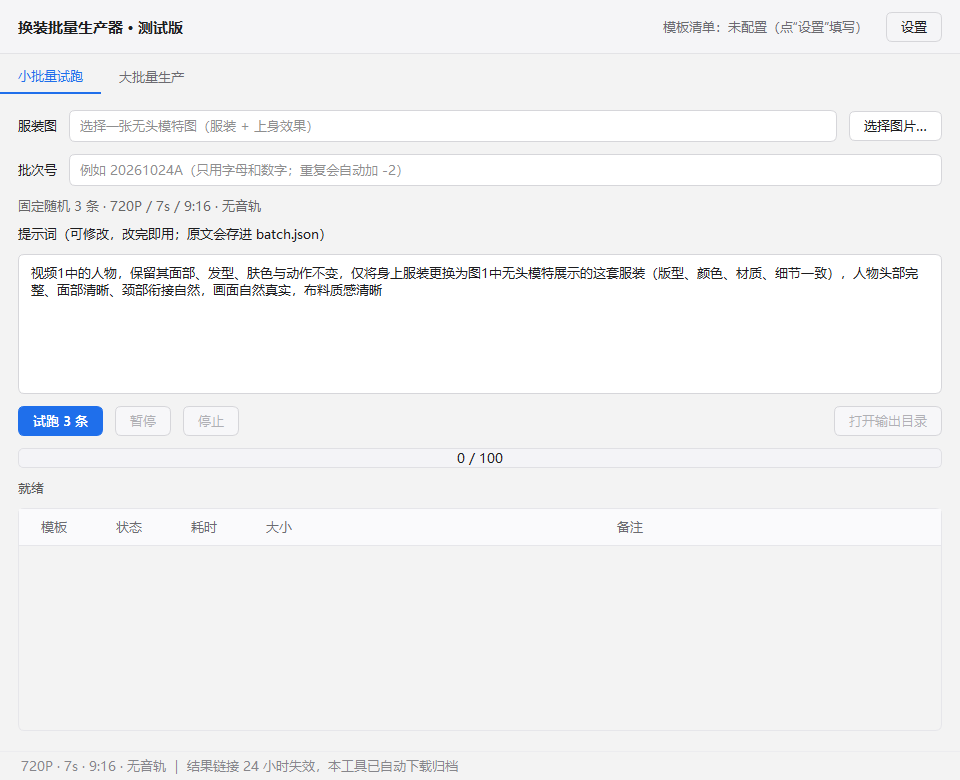
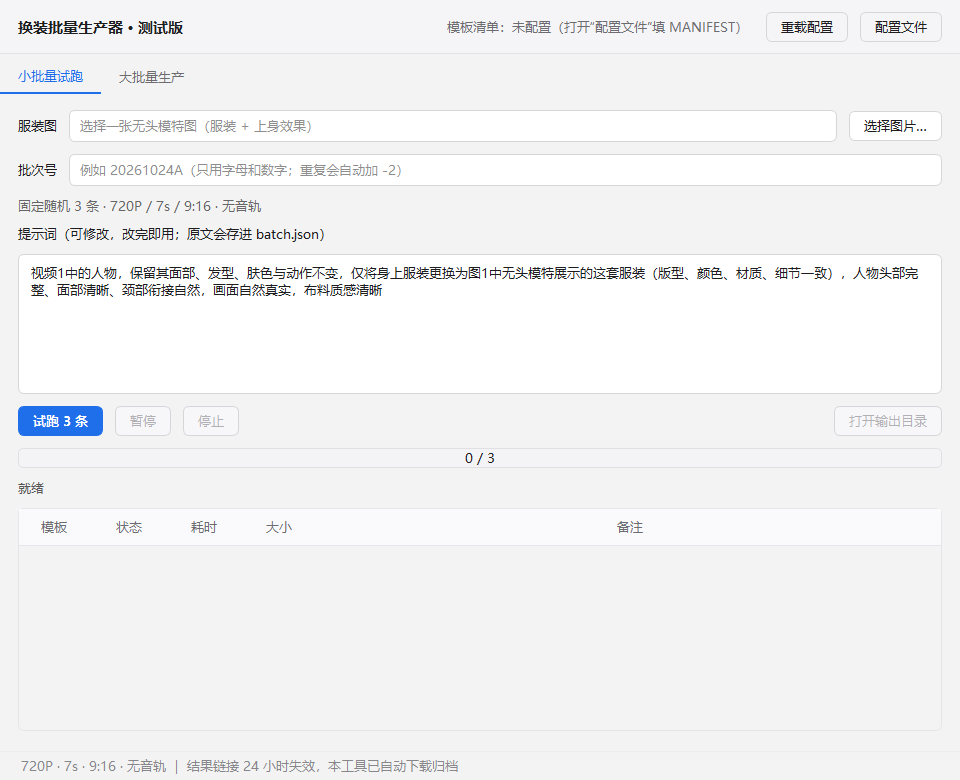
界面去掉全部配置输入框：改为 exe 同目录 配置.ini + 配置/重载按钮

Changed region(s): [[0.4688, 0.0, 0.9688, 0.0615], [0.4688, 0.5846, 0.5312, 0.6154]]

diff --git a/app/main.py b/app/main.py
@@ -534,7 +534,7 @@ class MainWindow(QMainWindow):
     def _load_manifest_async(self):
         source = (self.cfg.get("manifest") or "").strip()
         if not source:
-            self.manifest_label.setText("模板清单：未配置（点“设置”填写）")
+            self.manifest_label.setText("模板清单：未配置（打开“配置文件”填 MANIFEST）")
             return
         self.manifest_label.setText("模板清单：加载中…")
         self.manifest_worker = ManifestWorker(source)

diff --git a/app/README.md b/app/README.md
@@ -15,13 +15,23 @@
 
 ## 第一次使用（三步）
 
-1. **设置**（右上角）：
-   - 输出根目录：视频存这里，默认 `我的文档/换装输出`
-   - 模板清单：`https://你的CDN/manifest.json`
-   - API Key：内置版可留空
-   - （可选）**启用 COS 归档**：填桶名/地域/SecretId/SecretKey，点「测试连接」；通过后每批成品自动上传，`batch.json` 里多出 `cos_key`
-2. **选服装图**：一张无头模特图（服装 + 上身效果）
-3. **填批次号** → 点「试跑 3 条」，确认脸、衣服、脖子衔接都没问题，再去「大批量生产」放量
+**① 填 `配置.ini`**（exe 同目录，首次打开程序会自动生成）
+
+用记事本打开，只需要改这两行：
+
+```ini
+RH_API_KEY=你的32位Key
+MANIFEST=https://你的CDN/manifest.json
+```
+
+其余（输出目录、COS 归档）都有默认值，不用动。改完保存，回软件点右上角 **重载配置**。
+
+> 界面上**没有任何配置输入框**——Key、清单、存储全部在后台文件里，客户拿到程序只需要填一个文件。
+> 不知道怎么填？点右上角 **配置文件** 会直接用记事本打开它。
+
+**② 选服装图**：一张无头模特图（服装 + 上身效果）
+
+**③ 填批次号** → 点「试跑 3 条」，确认脸、衣服、脖子衔接都没问题，再去「大批量生产」放量
 
 ## 输出长什么样
 
@@ -39,6 +49,8 @@
 
 | 位置 | 说明 |
 | --- | --- |
+| 右上角「配置文件」 | 用记事本打开 `配置.ini`（找不到就自动生成） |
+| 右上角「重载配置」 | 改完配置点一下生效，不用重启 |
 | 模板下拉 | 第 1–5 组（001–100 … 401–500），或「随机 100 条」 |
 | 并发 | 3（稳）/10/50/100；账号有并发上限，失败多就调回 3 |
 | 提示词 | 可随意改，改完即用；原文会存进 `batch.json` |
@@ -46,6 +58,17 @@
 | 已完成再点开始 | 同批次号会新建 `-2` 目录，不覆盖历史 |
 
 **失败**：自动跳过并记在 `report.csv` 的「错误」列，整批不会中断。把失败编号记下来，单独再跑一次即可。
+
+## 配置项一览（`配置.ini`）
+
+| 键 | 必需 | 说明 |
+| --- | --- | --- |
+| `RH_API_KEY` | ✅ | RunningHub 32 位 Key，企业级共享 |
+| `MANIFEST` | ✅ | 模板清单地址（https 或本地路径） |
+| `OUTPUT_ROOT` | — | 留空 = exe 同目录 `输出\` |
+| `COS_ENABLED` | — | `true` 则成品自动上传 COS |
+| `COS_BUCKET` / `COS_REGION` / `COS_PREFIX` / `COS_DOMAIN` | — | 启用 COS 时填 |
+| （COS 密钥） | — | **不写进配置文件**，走环境变量 `COS_SECRET_ID/KEY`、`~/.cos/credentials.json` 或 tccli 登录态 |
 
 ## 开发者：重新打包
 
